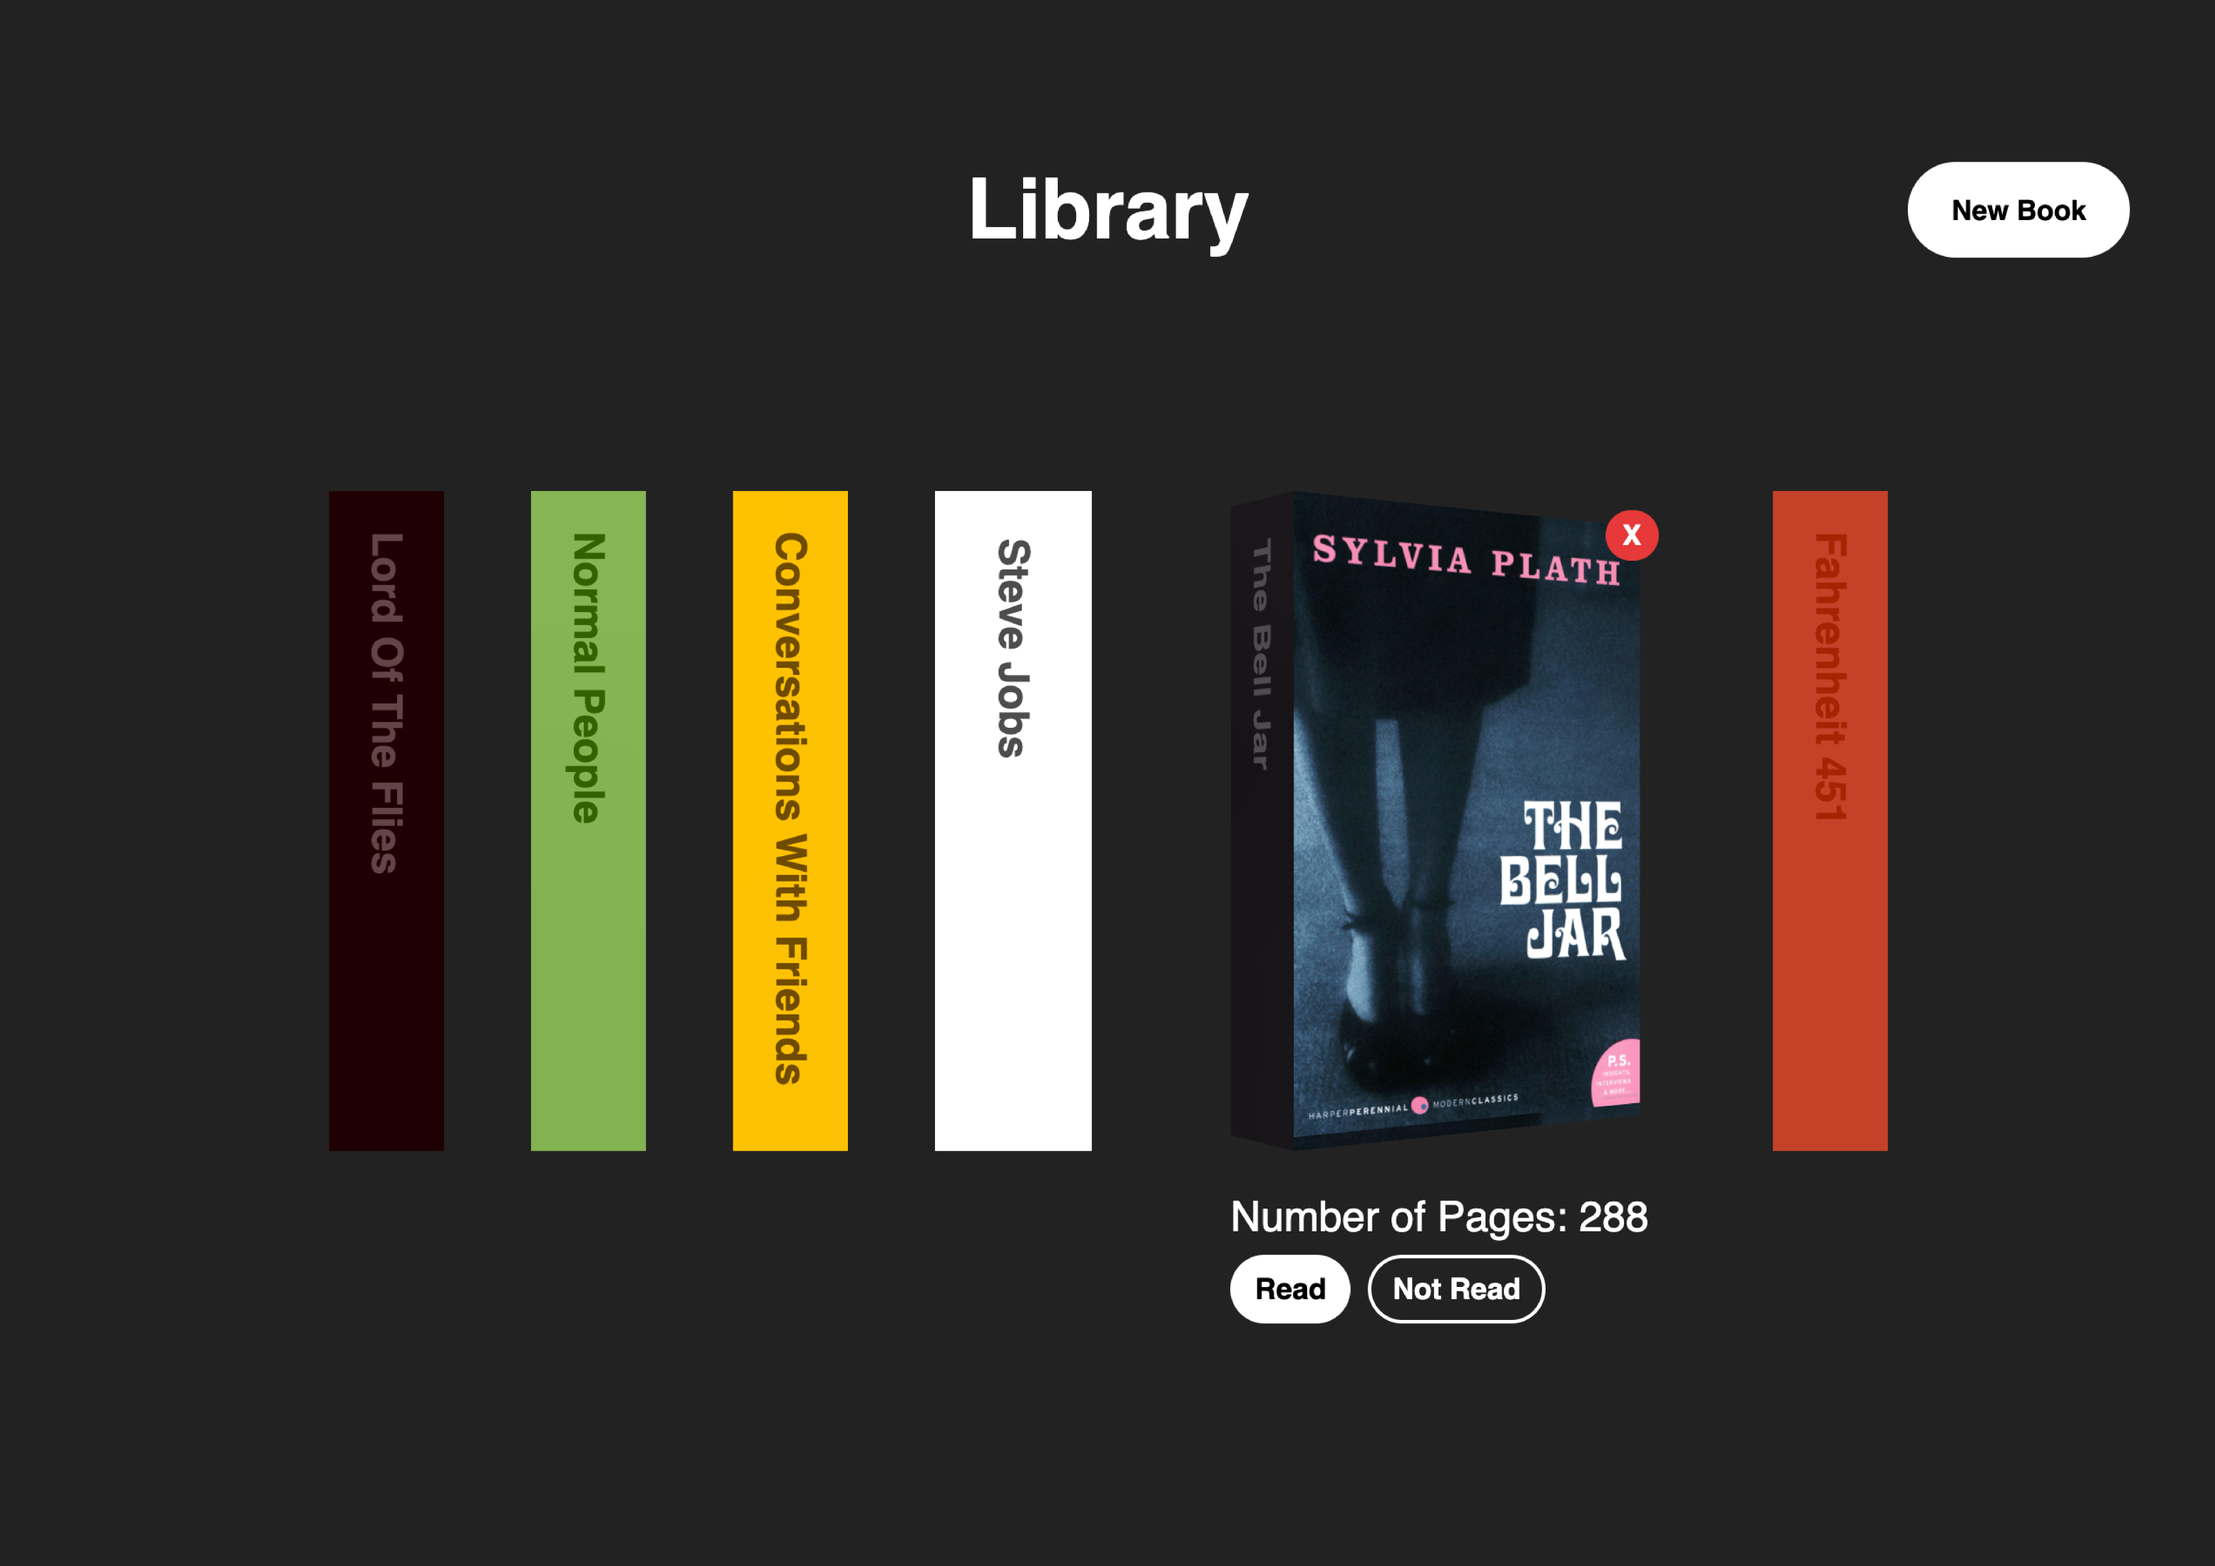
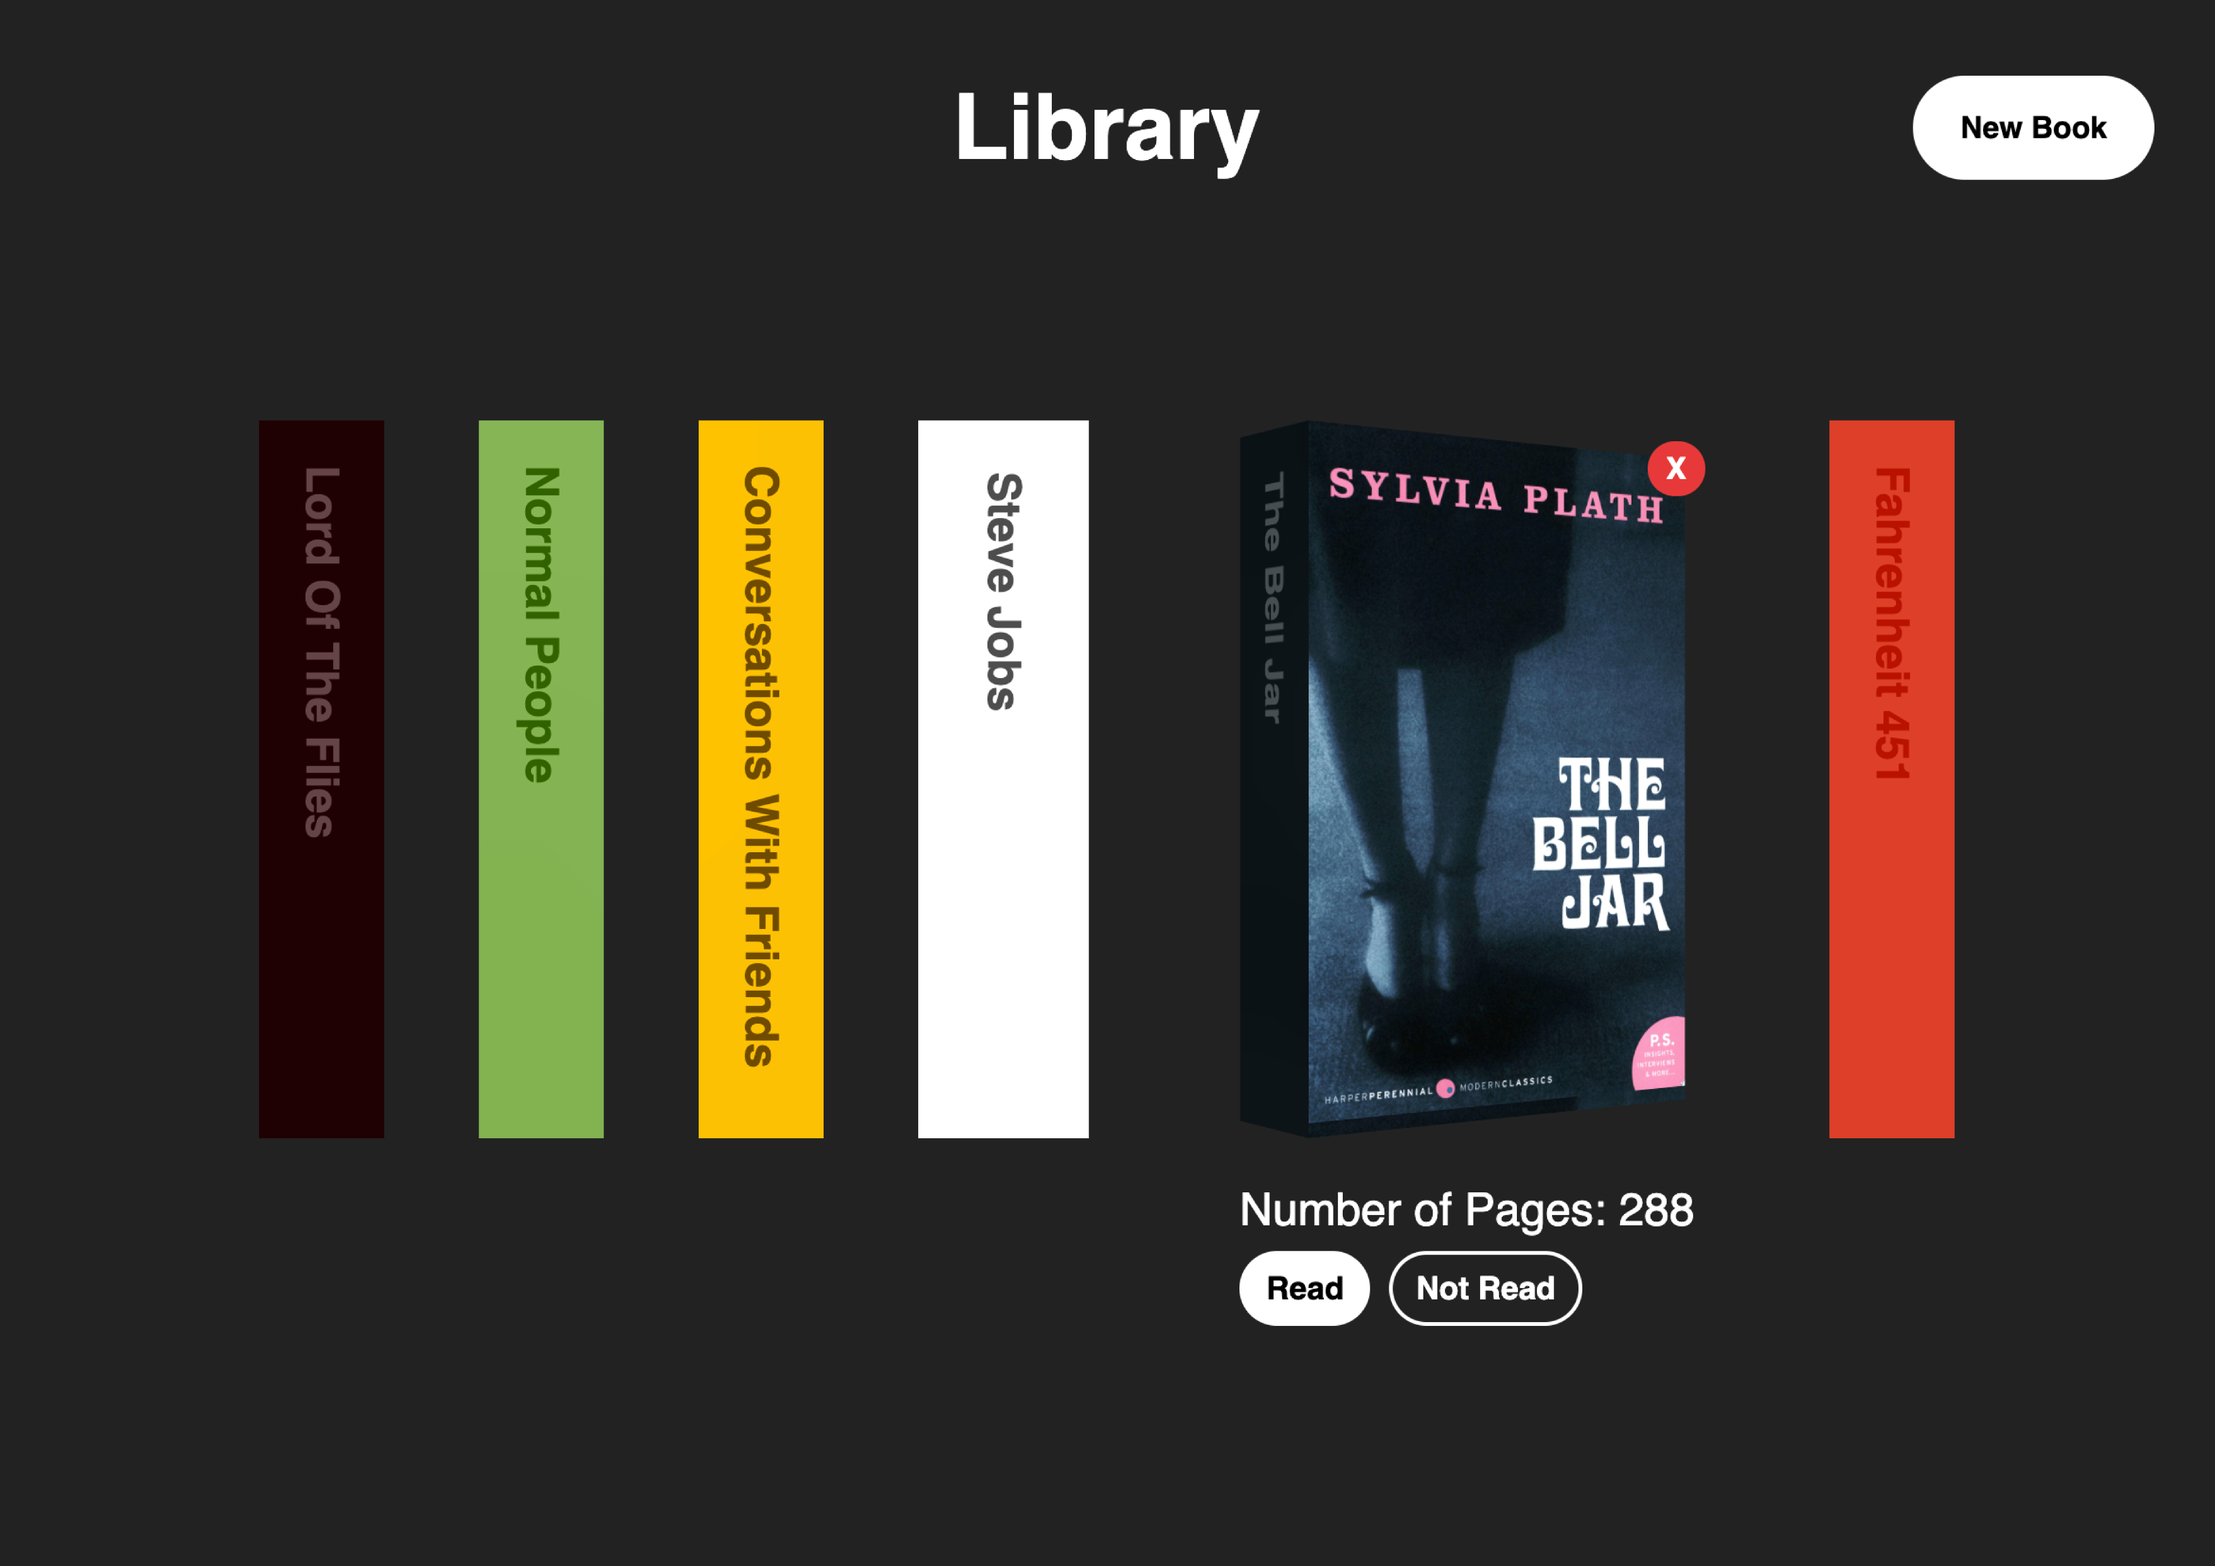
Add project pages

diff --git a/src/App.jsx b/src/App.jsx
@@ -3,26 +3,48 @@ import './styles/App.css';
 import { v4 as uuidv4 } from 'uuid';
 
 //import images
+import mapsThumbnail from './assets/Maps-Thumbnail.png'
+import coolLinks1 from './assets/Cool-Links-1.png';
+import coolLinks2 from './assets/Cool-Links-2.png';
 import coolLinksThumbnail from './assets/Cool-Links-Thumbnail.png';
+import library1 from './assets/Library-1.png';
 import libraryThumbnail from './assets/Library-Thumbnail.png';
+import toDo1 from './assets/ToDo-1.png';
+import toDo2 from './assets/ToDo-2.png';
+import toDo3 from './assets/ToDo-3.png';
 import toDoThumbnail from './assets/ToDo-Thumbnail.png';
-import mapsThumbnail from './assets/Maps-Thumbnail.png';
-import fafnirThumbnail from './assets/Fafnir-Thumbnail.png';
+import maps1 from './assets/Maps-1.png';
+import maps2 from './assets/Maps-2.png';
+import maps3 from './assets/Maps-3.png';
+import fafnir1 from './assets/Fafnir-1.png';
+import fafnir2 from './assets/Fafnir-2.png';
+import fafnir3 from './assets/Fafnir-3.png';
+import fafnirThumbnail from './assets/Fafnir-Thumbnail.png'
 
 //import components
 import NavBar from './components/NavBar'
 import Hero from './components/Hero'
-import Projects from './components/Projects'
+import {Projects} from './components/Projects'
 import Contact from './components/Contact'
 import Footer from './components/Footer'
 
 //list of project objects
 const projectList = [
-  { title: 'Cool Links', path: 'cool-links', img: coolLinksThumbnail, preview: 'https://cool-links.netlify.app/', code: 'https://github.com/paigebraun/cool-links', description: 'Seamlessly capture captivating links discovered across the the internet for easy access in the future. Elevate your digital curation prowess as you easily categorize these links into collections. Locate your saved links using intuitive keyword searches.', id: uuidv4()},
-  { title: 'Skeuomorphic Library', path: 'library', img: libraryThumbnail, preview: 'https://paigebraun.github.io/library/', code: 'https://github.com/paigebraun/library', description: 'A virtual library that mirrors the charm of its real-world counterpart. Simply add your favorite book, and unveil its cover image with a simple click. Keep track of which books have been read or delete titles from your library at any time. Explore the essence of a library reimagined, right at your fingertips.', id: uuidv4()},
-  { title: 'To Do List', path: 'todo-list', img: toDoThumbnail, preview: 'https://paigebraun.github.io/todo-list/', code: 'https://github.com/paigebraun/todo-list', description: 'A minimal, user-friendly to do list application that presents your daily tasks up front. Seamlessly transition to a comprehensive list view, add new tasks and delete old ones, or move tasks to different lists. Created to practice OOP and ES6 module syntax.', id: uuidv4()},
-  { title: 'Jazzberry Blue Maps', path: 'maps', img: mapsThumbnail, preview: '', code: '#', description: 'A recreation of maps designed by artist Jazzberry Blue with code. The program takes in shape layers and intricate coordinate data, transforms all intersecting streets into polygons, and randomly fills those polygons with a pre-defined selection of colors.', id: uuidv4()},
-  { title: "Fafnir's Dragon", path: 'fafnirs-dragon', img: fafnirThumbnail, preview: 'https://paigebraun.github.io/fafnirs-dragon/', code: ' https://github.com/paigebraun/fafnirs-dragon', description: 'A 2D platform game created as part of a semester long class with two classmates. The game implements two playing levels for users to choose from and has a high score ranking at the end of each play. Maneuver through intricately designed environments and beat the final boss to win the game.', id: uuidv4()}
+  { title: 'Cool Links', path: 'cool-links', img: coolLinksThumbnail, displayImg: [coolLinksThumbnail, coolLinks1, coolLinks2], preview: 'https://cool-links.netlify.app/', 
+    code: 'https://github.com/paigebraun/cool-links', description: 'Seamlessly capture captivating links discovered across the the internet for easy access in the future. Elevate your digital curation prowess as you easily categorize these links into collections. Locate your saved links using intuitive keyword searches.', 
+    builtWith: 'HTML, CSS, Javascript, React.js, Vite, Web Storage API, Link Preview API', id: uuidv4()},
+  { title: 'Skeuomorphic Library', path: 'library', img: libraryThumbnail, displayImg:[libraryThumbnail, library1], preview: 'https://paigebraun.github.io/library/', 
+    code: 'https://github.com/paigebraun/library', description: 'A virtual library that mirrors the charm of its real-world counterpart. Simply add your favorite book, and unveil its cover image with a simple click. Keep track of which books have been read or delete titles from your library at any time. Explore the essence of a library reimagined, right at your fingertips.', 
+    builtWith: 'HTML, CSS, Javascript, Google Books API', id: uuidv4()},
+  { title: 'To Do List', path: 'todo-list', img: toDoThumbnail, displayImg: [toDoThumbnail, toDo1, toDo2, toDo3], preview: 'https://paigebraun.github.io/todo-list/', 
+    code: 'https://github.com/paigebraun/todo-list', description: 'A minimal, user-friendly to do list application that presents your daily tasks up front. Seamlessly transition to a comprehensive list view, add new tasks and delete old ones, or move tasks to different lists. Created to practice OOP and ES6 module syntax.', 
+    builtWith: 'HTML, CSS, Javascript, Webpack', id: uuidv4()},
+  { title: 'Jazzberry Blue Maps', path: 'maps', img: mapsThumbnail, displayImg: [maps1, maps2, maps3], preview: '', 
+    code: '#', description: 'A recreation of maps designed by artist Jazzberry Blue with code. The program takes in shape layers and intricate coordinate data, transforms all intersecting streets into polygons, and randomly fills those polygons with a pre-defined selection of colors.',
+    builtWith: 'Python, Matplotlib, GeoPandas, Shapely, NumPy', id: uuidv4()},
+  { title: "Fafnir's Dragon", path: 'fafnirs-dragon', img: fafnirThumbnail, displayImg: [fafnirThumbnail, fafnir1, fafnir2, fafnir3], preview: 'https://paigebraun.github.io/fafnirs-dragon/', 
+    code: ' https://github.com/paigebraun/fafnirs-dragon', description: 'A 2D platform game created as part of a semester long class with two classmates. The game implements two playing levels for users to choose from and has a high score ranking at the end of each play. Maneuver through intricately designed environments and beat the final boss to win the game.', 
+    builtWith: 'HTML, CSS, Javascript, Phaser 3, TileMaps', id: uuidv4()}
 ]
 
 //fade up animation

diff --git a/src/components/ProjectPage.jsx b/src/components/ProjectPage.jsx
@@ -1,0 +1,74 @@
+import '../styles/ProjectPage.css';
+import { FadeInSection } from '../App';
+import { useParams } from 'react-router-dom';
+
+//import components
+import NavBarBack from './NavBarBack'
+import Footer from './Footer';
+import { projectList } from '../App';
+import { LivePreview } from './Projects';
+import ScrollToTop from '../ScrollToTop';
+
+function ImgCount({imgs}) {
+    if (imgs.length < 3) {
+        return (
+            <div>
+                <img className='image-1' src={ imgs[0] }></img>
+                <img className='image-2' src={ imgs[1] }></img>
+            </div>
+        )
+    }
+    else {
+        return (
+            <div>
+            <img className='image-1' src={ imgs[0] }></img>
+                <div className='sideByside'>
+                    <img className='image-2' src={ imgs[1] }></img>
+                    <img className='image-3' src={ imgs[2] }></img>
+                </div>
+            <img className='image-4' src={ imgs[3] }></img>
+            </div>
+        )
+    }
+}
+
+const ProjectPage = () => {
+    //match route parameter to index in project list
+    const routeParams = useParams();
+    let index = projectList.findIndex(e => e.path === routeParams.id);
+    let currentProject = projectList[index];
+
+    return (
+        <>
+        <ScrollToTop />
+        <div className='root-project-page'>
+            <NavBarBack />
+            <FadeInSection>
+                <div className='container'>
+                    <h2>{currentProject.title}</h2>
+                    <div className='description'>
+                        <p>{currentProject.description}</p>
+                        <div className='project-external'>
+                            <LivePreview 
+                                link={currentProject.preview}
+                            />
+                            <a href={currentProject.code} target='_blank'>Code
+                                <i className='bx bx-link-external'></i>
+                            </a>
+                        </div>
+                    </div>
+                    <div className='builtWith'>
+                        <p><span style={{fontWeight: 'bold'}}>Built With:&nbsp;</span>{currentProject.builtWith}</p>
+                    </div>
+                </div>
+                <ImgCount 
+                    imgs={currentProject.displayImg}
+                />
+            </FadeInSection>
+            <Footer />
+        </div>
+        </>
+    )
+}
+
+export default ProjectPage

diff --git a/src/components/Projects.jsx b/src/components/Projects.jsx
@@ -1,9 +1,7 @@
 import '../styles/Projects.css';
 import { Link } from 'react-router-dom';
 
-function LivePreview( {link} ) {
-    console.log(link);
-    console.log(link=='');
+function LivePreview({link}) {
     if (link!=='') {
         return (
             <a href={link} target='_blank'>Live Preview
@@ -16,9 +14,9 @@ function LivePreview( {link} ) {
     }
 }
 
-const Projects = ({projectList, FadeInSection}) => {
+function Projects({projectList, FadeInSection}) {
     return (
-        <div id='projectContainer'>
+        <div id='projects'>
         {projectList.map((project)=> (
             <FadeInSection key={project.id}>
             <div className='project'>
@@ -49,4 +47,4 @@ const Projects = ({projectList, FadeInSection}) => {
     )
 }
 
-export default Projects
+export {Projects, LivePreview}

diff --git a/src/components/NavBarBack.jsx b/src/components/NavBarBack.jsx
@@ -8,10 +8,10 @@ const NavBarBack = () => {
             <ul className='nav-list'>
                 <li className='nav-item'>
                     <i className='bx bx-left-arrow-alt'></i>
-                    <HashLink smooth={true} to='/projects/#projectContainer'>Back</HashLink>
+                    <HashLink smooth={true} to='/#projects'>Back</HashLink>
                 </li>
                 <li className='nav-item'>
-                    <HashLink smooth={true} to='/projects/#projectContainer'>Projects</HashLink>
+                    <HashLink smooth={true} to='/#projects'>Projects</HashLink>
                 </li>
                 <li className='nav-item'>
                     <Link to='/about'>About</Link>

diff --git a/src/styles/ProjectPage.css b/src/styles/ProjectPage.css
@@ -1,4 +1,9 @@
 /*styles that apply to all individual project pages*/
+.root-project-page {
+    padding-inline-end: 60px;
+    padding-inline-start: 60px;
+}
+
 .container {
     display: flex;
     flex-direction: column;
@@ -27,4 +32,26 @@
 
 .project-external a:hover {
     text-decoration: underline;
+}
+
+.builtWith {
+    margin-bottom: 30px;
+}
+
+.sideByside {
+    display: flex;
+    gap: 1%;
+    margin: 10px 0;
+}
+
+.image-1,
+.image-2,
+.image-3,
+.image-4 {
+    border-radius: 15px;
+    max-width: 100%;
+}
+
+.sideByside img {
+    max-width: 49.5%;
 }

diff --git a/src/main.jsx b/src/main.jsx
@@ -6,7 +6,7 @@ import './styles/index.css';
 
 //import components
 import About from './About.jsx';
-import CoolLinks from './CoolLinks.jsx';
+import ProjectPage from './components/ProjectPage.jsx';
 
 const router = createBrowserRouter([
   {
@@ -22,9 +22,9 @@ const router = createBrowserRouter([
     element: <App />,
   },
   {
-    path: '/projects/cool-links',
-    element: <CoolLinks />
-  }
+    path: '/projects/:id',
+    element: <ProjectPage />,
+  },
 ]);
 
 ReactDOM.createRoot(document.getElementById('root')).render(

diff --git a/src/components/NavBar.jsx b/src/components/NavBar.jsx
@@ -12,7 +12,7 @@ const NavBar = () => {
                     <Link to='/'>Paige Braun</Link>
                 </li>
                 <li className='nav-item'>
-                    <HashLink smooth={true} to='/projects/#projectContainer'>Projects</HashLink>
+                    <HashLink smooth={true} to='/#projects'>Projects</HashLink>
                 </li>
                 <li className='nav-item'>
                     <Link to='/about'>About</Link>

diff --git a/src/styles/App.css b/src/styles/App.css
@@ -27,8 +27,8 @@
     left: 0;
     right: 0;
     height: 60vh; /* Height of the effect */
-    padding-inline-end: 40px;
-    padding-inline-start: 40px;
+    padding-inline-end: 60px;
+    padding-inline-start: 60px;
 }
 
 

diff --git a/src/styles/About.css b/src/styles/About.css
@@ -1,6 +1,6 @@
 .root-about {
-    padding-inline-end: 40px;
-    padding-inline-start: 40px;
+    padding-inline-end: 60px;
+    padding-inline-start: 60px;
 }
 
 .heroContainer-about {

diff --git a/src/styles/Hero.css b/src/styles/Hero.css
@@ -8,7 +8,7 @@
     align-items: flex-start;
     display: flex;
     flex-direction: column;
-    max-width: 50%;
+    max-width: 70%;
     position: absolute;
     bottom: 0;
 }

diff --git a/src/styles/Contact.css b/src/styles/Contact.css
@@ -1,7 +1,7 @@
 .contact {
     font-size: 1.5em;
     margin-top: 150px;
-    margin-bottom: 150px;
+    margin-bottom: 120px;
 }
 
 .contact h3,

diff --git a/src/styles/Footer.css b/src/styles/Footer.css
@@ -8,6 +8,7 @@
     gap: 30px;
     justify-content: flex-end;
     padding-bottom: 50px;
+    margin-top:30px;
 }
 
 .footer a:hover {
